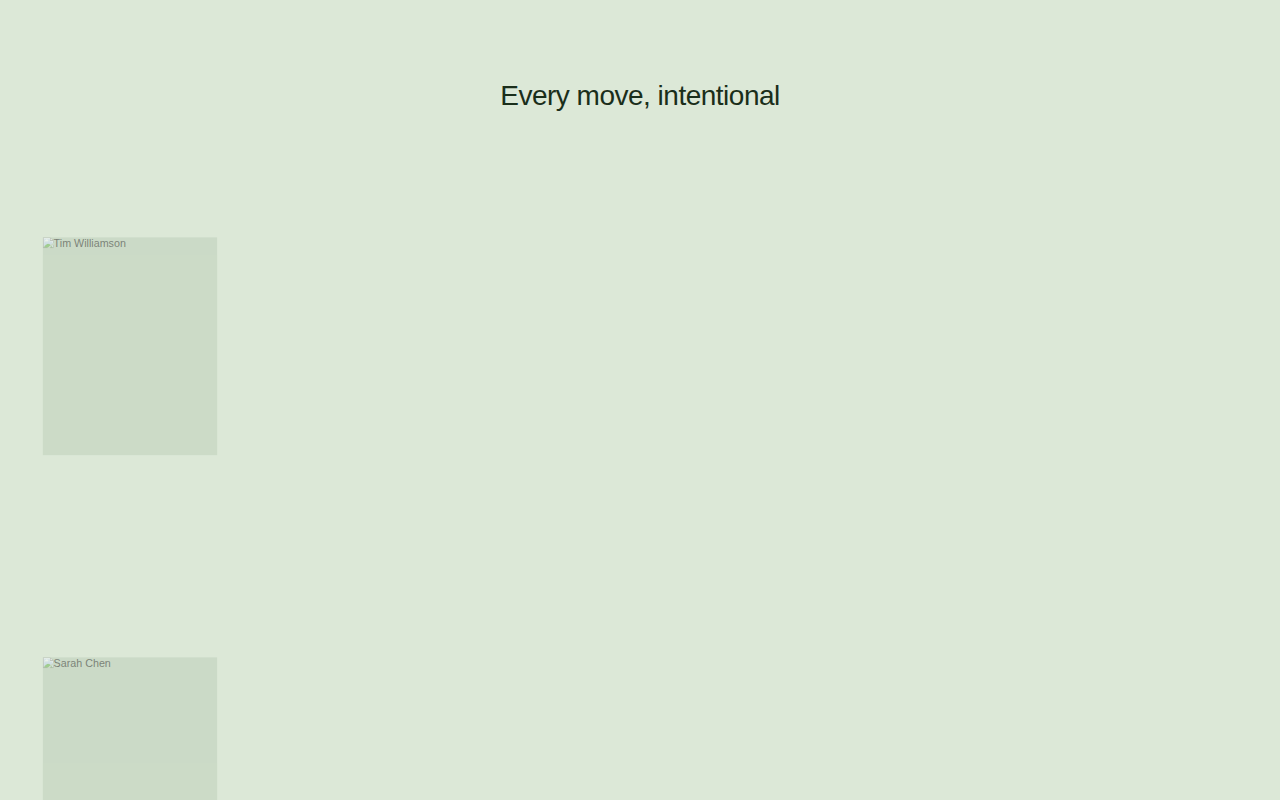
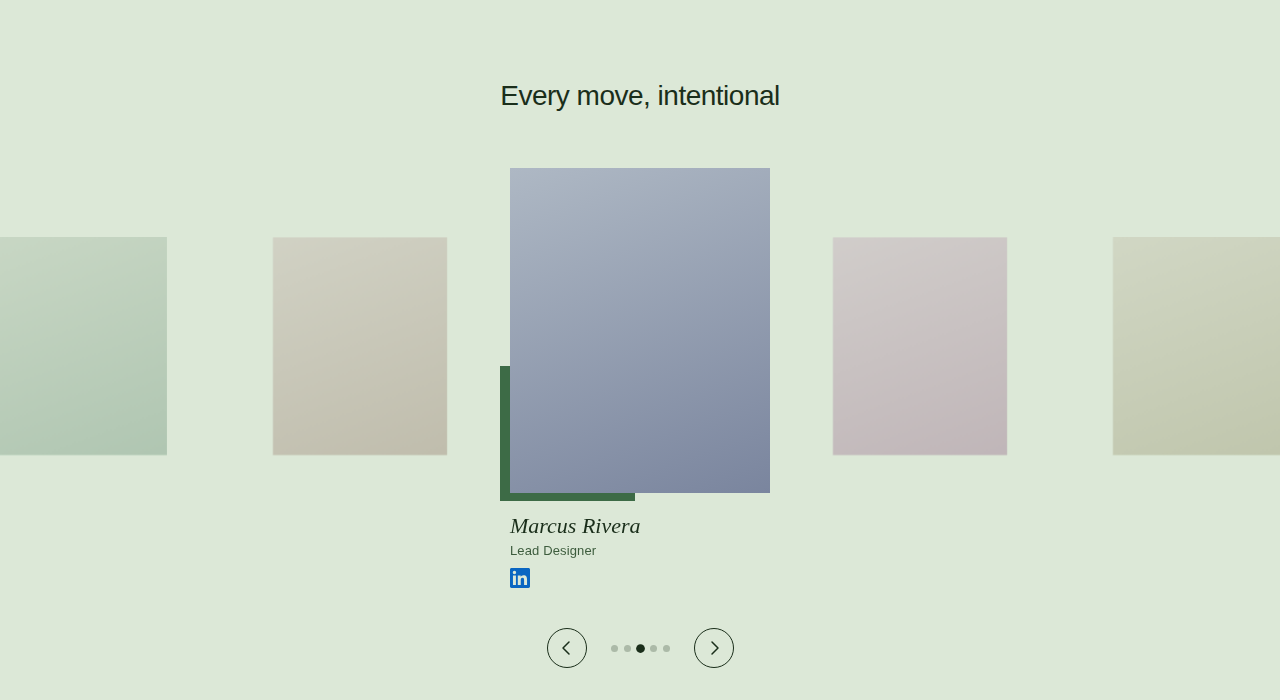
Fix team slider: full layout working with infinite loop
- Switch from Swiper 12 native loop (translate-jump, no DOM clones) to
  a JS clone-based pattern: prepend + append copies of the 5 slides so
  real content exists on both sides at initial render
- Fix overflow-x:clip on outer wrapper so bio text below photos is not
  clipped vertically
- Fix prepend order (reverse-iterate so left clones stay in sequence)
- Build custom 5-dot pagination before Swiper init to avoid init/timing
  race; updateDots() syncs active dot on every slideChange
- Slides on both sides, active card ~50% larger, bio + accent square
  visible on active, controls row centered (prev | dots | next)

https://claude.ai/code/session_01TkqKYF6J6YykkJAFf7Ufzq

diff --git a/team-slider.html b/team-slider.html
@@ -6,7 +6,7 @@
   <title>Team Slider</title>
 
   <!-- Swiper CSS -->
-  <link rel="stylesheet" href="https://cdn.jsdelivr.net/npm/swiper@11/swiper-bundle.min.css">
+  <link rel="stylesheet" href="vendor/swiper.min.css">
 
   <!-- Google Fonts -->
   <link rel="preconnect" href="https://fonts.googleapis.com">
@@ -44,6 +44,7 @@
       letter-spacing: -0.5px;
       color: #1a2e1a;
       margin-bottom: 56px;
+      padding: 0 40px;
     }
 
     /* ── Swiper container ── */
@@ -53,10 +54,12 @@
       overflow: visible;
     }
 
-    /* Clip to viewport width on the outer wrapper */
+    /* Clip horizontally only — overflow-x:clip doesn't create a block formatting
+       context so children can still overflow vertically (bio below photos). */
     .team-swiper-outer {
       width: 100%;
-      overflow: hidden;
+      overflow-x: clip;
+      overflow-y: visible;
     }
 
     /* ── Slide base ── */
@@ -66,18 +69,22 @@
       flex-direction: column;
       align-items: center;
       gap: 20px;
-      transform: scale(0.67);
-      opacity: 0.45;
-      transition:
-        transform 0.5s cubic-bezier(0.25, 0.46, 0.45, 0.94),
-        opacity   0.5s ease;
+      /* opacity on inactive handled via JS coverflow scale */
+      transition: opacity 0.4s ease;
       cursor: pointer;
     }
 
     .swiper-slide-active {
-      transform: scale(1);
-      opacity: 1;
       cursor: default;
+    }
+
+    /* Fade bio and accent on inactive — JS setTranslate handles scale */
+    .swiper-slide:not(.swiper-slide-active) {
+      opacity: 0.45;
+    }
+
+    .swiper-slide-active {
+      opacity: 1;
     }
 
     /* ── Photo wrapper ── */
@@ -113,9 +120,14 @@
       object-position: top;
       display: block;
       z-index: 1;
-      /* placeholder background */
-      background: #b8cbb4;
     }
+
+    /* CSS-only photo placeholders when no real image is present */
+    .team-card__photo--p1 { background: linear-gradient(160deg, #b0c4ae 0%, #7a9e85 100%); }
+    .team-card__photo--p2 { background: linear-gradient(160deg, #c4b8ae 0%, #9e8a7a 100%); }
+    .team-card__photo--p3 { background: linear-gradient(160deg, #aeb8c4 0%, #7a859e 100%); }
+    .team-card__photo--p4 { background: linear-gradient(160deg, #c4aebc 0%, #9e7a94 100%); }
+    .team-card__photo--p5 { background: linear-gradient(160deg, #c4c4ae 0%, #9e9e7a 100%); }
 
     /* ── Bio ── */
     .team-card__bio {
@@ -171,21 +183,25 @@
       margin-top: 40px;
     }
 
-    /* Nav buttons */
+    /* Nav buttons — force static so Swiper can't make them absolute */
     .team-swiper-prev,
     .team-swiper-next {
-      position: static;
-      width: 40px;
-      height: 40px;
+      position: static !important;
+      top: auto !important;
+      left: auto !important;
+      right: auto !important;
+      bottom: auto !important;
+      width: 40px !important;
+      height: 40px !important;
       border-radius: 50%;
       border: 1.5px solid #1a2e1a;
       background: transparent;
-      display: flex;
+      display: flex !important;
       align-items: center;
       justify-content: center;
       cursor: pointer;
       transition: background 0.2s, border-color 0.2s;
-      margin: 0;
+      margin: 0 !important;
       flex-shrink: 0;
     }
 
@@ -217,12 +233,15 @@
       display: none;
     }
 
-    /* Pagination */
+    /* Pagination — override Swiper's absolute/width:100% defaults */
     .team-swiper-pagination {
-      position: static;
-      display: flex;
+      position: static !important;
+      width: auto !important;
+      display: flex !important;
       align-items: center;
       gap: 6px;
+      bottom: auto !important;
+      left: auto !important;
     }
 
     .team-swiper-pagination .swiper-pagination-bullet {
@@ -230,7 +249,7 @@
       height: 7px;
       background: #1a2e1a;
       opacity: 0.25;
-      margin: 0;
+      margin: 0 !important;
       transition: opacity 0.2s, transform 0.2s;
     }
 
@@ -253,7 +272,7 @@
           <div class="swiper-slide">
             <div class="team-card__image-wrapper">
               <div class="team-card__accent"></div>
-              <img class="team-card__photo" src="https://images.unsplash.com/photo-1560250097-0b93528c311a?w=400&q=80" alt="Tim Williamson">
+              <div class="team-card__photo team-card__photo--p1"></div>
             </div>
             <div class="team-card__bio">
               <h3 class="team-card__name">Tim Williamson</h3>
@@ -270,7 +289,7 @@
           <div class="swiper-slide">
             <div class="team-card__image-wrapper">
               <div class="team-card__accent"></div>
-              <img class="team-card__photo" src="https://images.unsplash.com/photo-1573496359142-b8d87734a5a2?w=400&q=80" alt="Sarah Chen">
+              <div class="team-card__photo team-card__photo--p2"></div>
             </div>
             <div class="team-card__bio">
               <h3 class="team-card__name">Sarah Chen</h3>
@@ -287,7 +306,7 @@
           <div class="swiper-slide">
             <div class="team-card__image-wrapper">
               <div class="team-card__accent"></div>
-              <img class="team-card__photo" src="https://images.unsplash.com/photo-1507003211169-0a1dd7228f2d?w=400&q=80" alt="Marcus Rivera">
+              <div class="team-card__photo team-card__photo--p3"></div>
             </div>
             <div class="team-card__bio">
               <h3 class="team-card__name">Marcus Rivera</h3>
@@ -304,7 +323,7 @@
           <div class="swiper-slide">
             <div class="team-card__image-wrapper">
               <div class="team-card__accent"></div>
-              <img class="team-card__photo" src="https://images.unsplash.com/photo-1580489944761-15a19d654956?w=400&q=80" alt="Priya Patel">
+              <div class="team-card__photo team-card__photo--p4"></div>
             </div>
             <div class="team-card__bio">
               <h3 class="team-card__name">Priya Patel</h3>
@@ -321,7 +340,7 @@
           <div class="swiper-slide">
             <div class="team-card__image-wrapper">
               <div class="team-card__accent"></div>
-              <img class="team-card__photo" src="https://images.unsplash.com/photo-1500648767791-00dcc994a43e?w=400&q=80" alt="James Okafor">
+              <div class="team-card__photo team-card__photo--p5"></div>
             </div>
             <div class="team-card__bio">
               <h3 class="team-card__name">James Okafor</h3>
@@ -351,30 +370,84 @@
   </section>
 
   <!-- Swiper JS -->
-  <script src="https://cdn.jsdelivr.net/npm/swiper@11/swiper-bundle.min.js"></script>
+  <script src="vendor/swiper.min.js"></script>
   <script>
+    // Swiper 12 uses translate-jump loop (no DOM clones), which means the active
+    // slide always starts at DOM position 0 with nothing to its left on first render.
+    // Fix: clone slides before init so real content exists on both sides.
+    const COUNT = 5;
+    const wrapper = document.querySelector('.swiper-wrapper');
+    const originals = [...wrapper.children];
+    // Append a copy after the originals
+    originals.forEach(s => wrapper.appendChild(s.cloneNode(true)));
+    // Prepend a copy before — forEach prepend reverses, so iterate in reverse to keep order
+    [...originals].reverse().forEach(s => wrapper.prepend(s.cloneNode(true)));
+    // DOM is now: [5 clones in order][5 originals][5 clones in order] = 15 slides
+    // initialSlide: COUNT + 2 = slide index 7 (Marcus Rivera in middle set)
+
+    // ── Custom 5-dot pagination (built before Swiper init) ──────────────────
+    const paginationEl = document.querySelector('.team-swiper-pagination');
+
+    function updateDots(activeIndex) {
+      const realDot = ((activeIndex % COUNT) + COUNT) % COUNT;
+      paginationEl.querySelectorAll('.swiper-pagination-bullet').forEach((dot, i) => {
+        dot.classList.toggle('swiper-pagination-bullet-active', i === realDot);
+      });
+    }
+
+    for (let i = 0; i < COUNT; i++) {
+      const dot = document.createElement('span');
+      dot.className = 'swiper-pagination-bullet';
+      dot.addEventListener('click', () => {
+        const base = Math.floor(teamSwiper.activeIndex / COUNT) * COUNT;
+        const target = base + i;
+        const clamped = Math.max(COUNT, Math.min(COUNT * 2 - 1, target));
+        teamSwiper.slideTo(clamped);
+      });
+      paginationEl.appendChild(dot);
+    }
+
     const teamSwiper = new Swiper('.team-swiper', {
-      // Core
       slidesPerView: 'auto',
       centeredSlides: true,
-      loop: true,
+      loop: false,
+      initialSlide: COUNT + 2,
       speed: 500,
+      spaceBetween: 20,
+      watchSlidesProgress: true,
 
-      // Space between slides accounts for the scale gap
-      spaceBetween: 0,
-
-      // Navigation arrows
-      navigation: {
-        nextEl: '.team-swiper-next',
-        prevEl: '.team-swiper-prev',
-      },
-
-      // Pagination dots
-      pagination: {
-        el: '.team-swiper-pagination',
-        clickable: true,
+      on: {
+        setTranslate(swiper) {
+          swiper.slides.forEach((slide) => {
+            const p = slide.progress || 0;
+            const scale = 1 - Math.min(Math.abs(p), 1) * 0.33;
+            slide.style.transform = `scale(${scale})`;
+          });
+        },
+        setTransition(swiper, duration) {
+          swiper.slides.forEach(slide => {
+            slide.style.transition = `transform ${duration}ms ease`;
+          });
+        },
+        slideChange(swiper) {
+          // Seamless wrap: jump to equivalent slide in the middle set
+          const idx = swiper.activeIndex;
+          if (idx >= COUNT * 2) {
+            swiper.slideTo(idx - COUNT, 0, false);
+          } else if (idx < COUNT) {
+            swiper.slideTo(idx + COUNT, 0, false);
+          }
+          updateDots(swiper.activeIndex);
+        },
+        init(swiper) {
+          updateDots(swiper.activeIndex);
+        }
       },
     });
+
+    // Wire nav buttons manually
+    document.querySelector('.team-swiper-prev').addEventListener('click', () => teamSwiper.slidePrev());
+    document.querySelector('.team-swiper-next').addEventListener('click', () => teamSwiper.slideNext());
   </script>
 
 </body>
